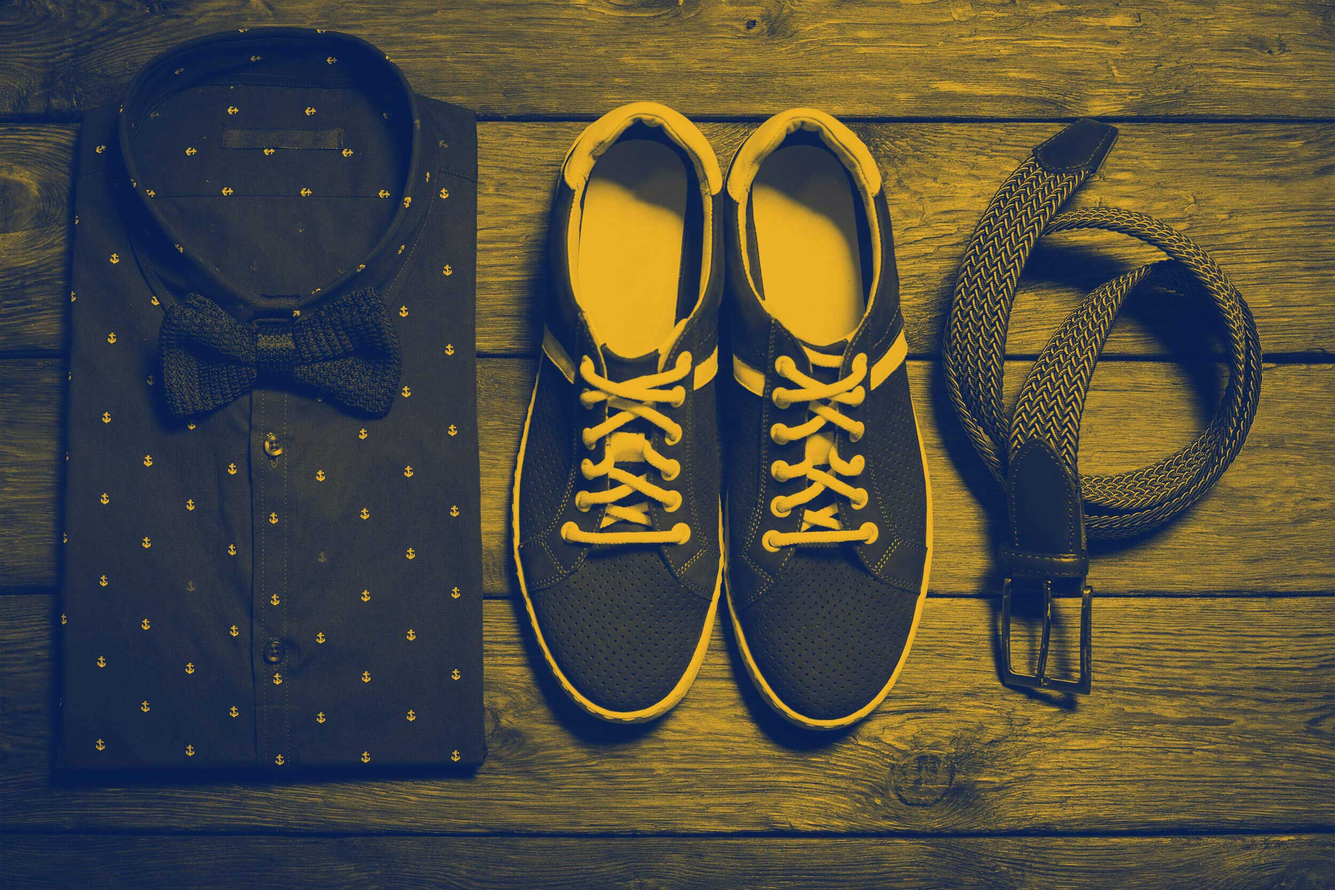
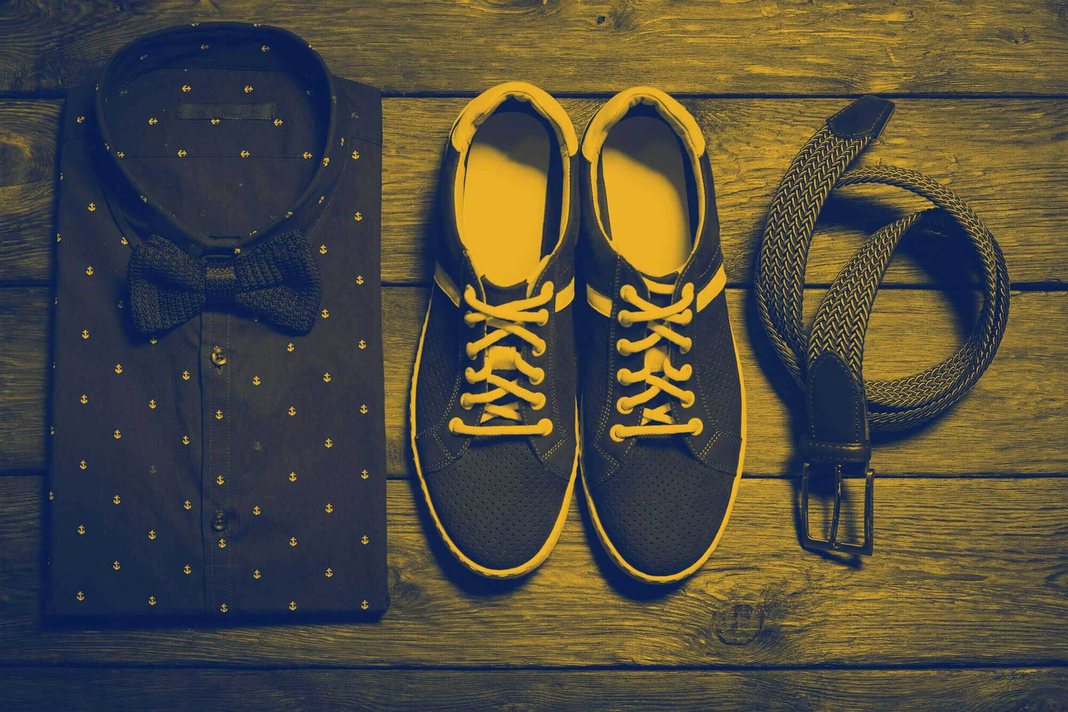
minified some images

diff --git a/css/main.sass b/css/main.sass
@@ -34,11 +34,11 @@ $about: '/img/omaha.jpg'
 $careers: '/img/careers_bkg.png'
 $flex: '/img/clocks.jpg'
 $events: '/img/bokeh.jpg'
-$casual: '/img/casz.jpg'
+$casual: '/img/casz-min.jpg'
 $breaktime: '/img/BreakTime.jpg'
-$vacation: '/img/vacay.jpg'
+$vacation: '/img/vacay_8.png'
 $bestpeeps: '/img/Best_peeps.jpg'
-$positions: '/img/Corkboard_red.jpg'
+$positions: '/img/Corkboard_red.png'
 $road: '/img/future-min.jpg'
 
 // 2. :-=-=-=-=-=-=-=-=-=-=-=-=-=-=-=--=-=-=-=-=-=-=-=-=-=-=-=-=-=-=-: Mixins

diff --git a/_layouts/default.html b/_layouts/default.html
@@ -36,6 +36,5 @@
     <script src="https://ajax.googleapis.com/ajax/libs/jquery/2.2.4/jquery.min.js"></script>
     <script src="/js/jquery.fullPage.min.js"></script>
     <script src="/js/main.js"></script>
-
   </body>
 </html>
